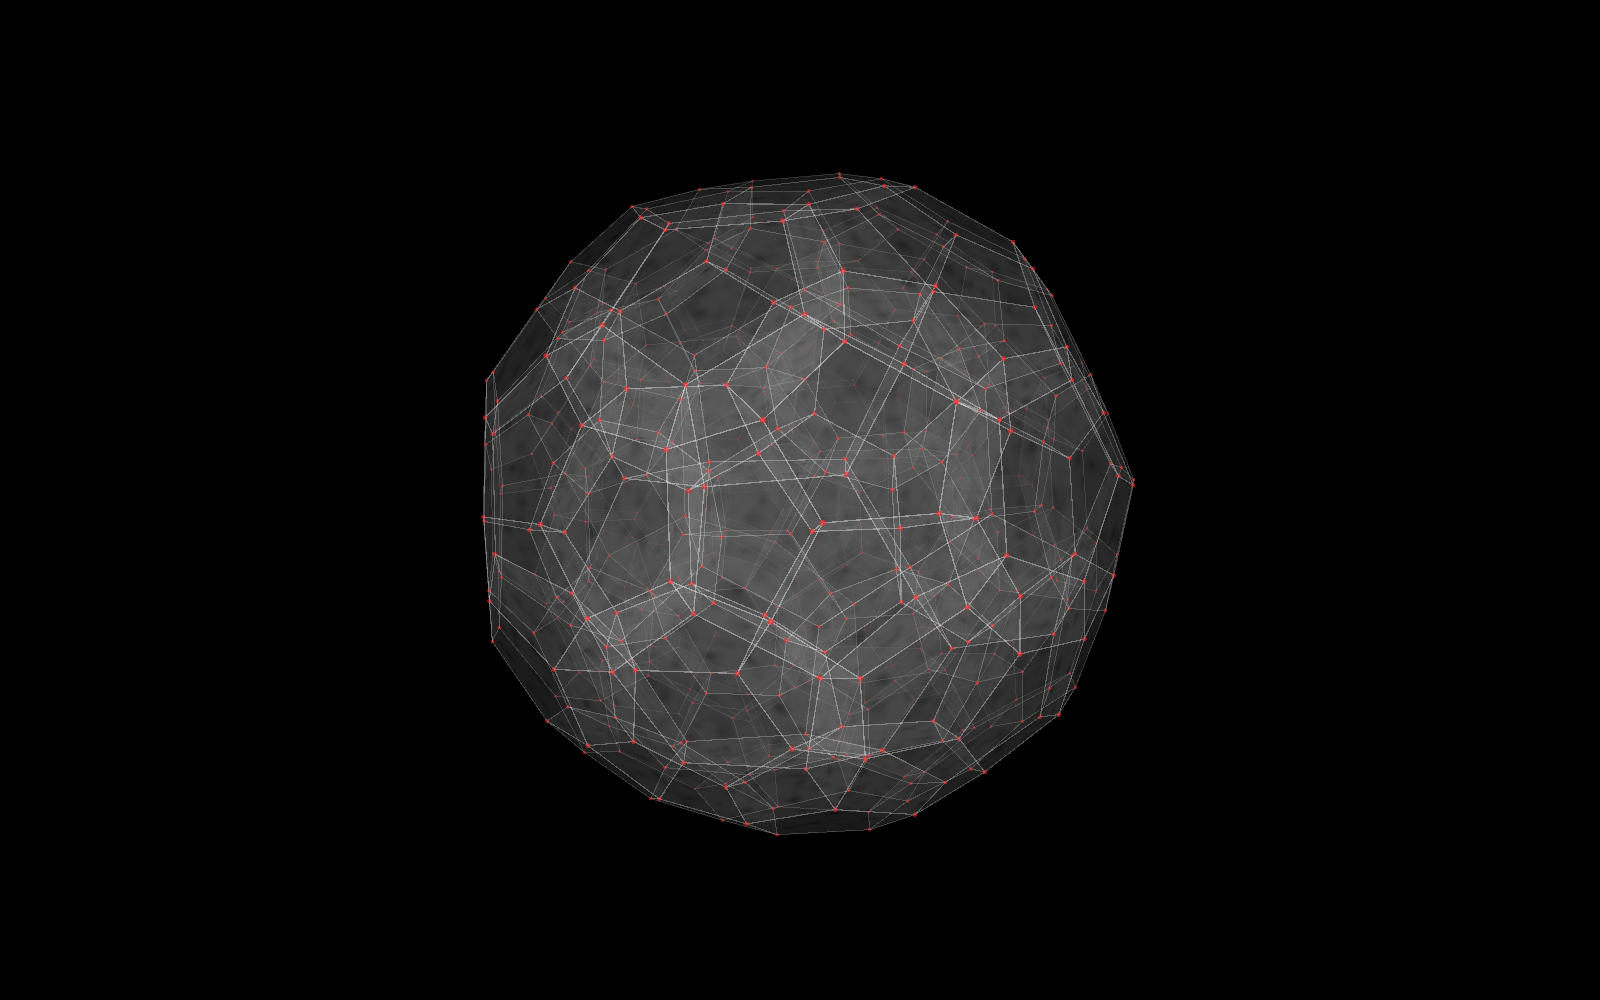
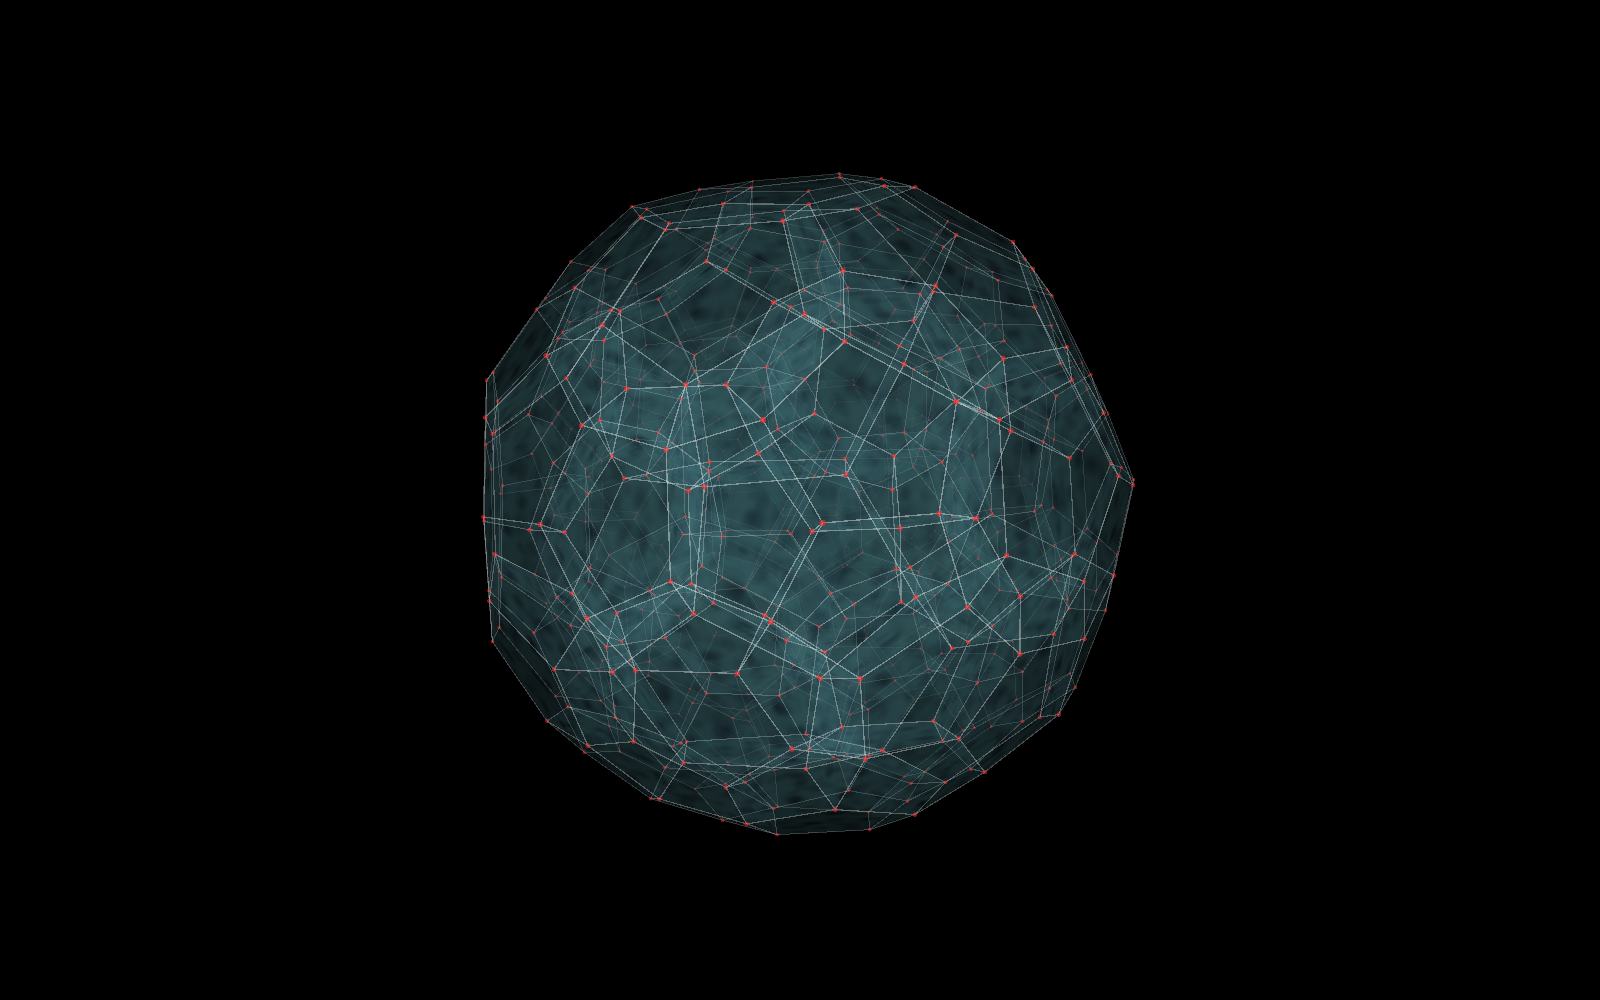
patterns: full colour space for the face shaders
The pattern contract widens from a scalar to vec4 (rgb + intensity),
with hsv() and a cosine-palette helper added to patterns.glsl so
colourful edits stay one-liners. All five shipped patterns recoloured:
RINGS rides a palette on ring phase, PLAID crosses a warm and a cool
wave system (colours add where they agree), MOIRE sweeps a teal-magenta
duotone, BLOOM hue-rotates its petals, CAUSTIC gets the deep-water
palette. FLAT stays plain white; wireframe and vertices keep the
red-on-black look. A chromaticity test asserts every non-flat pattern
leaves the gray axis. 127 tests green.

Claude-Session: https://claude.ai/code/session_01JqYpNTbn89AKhU11mSEWgg

Changed region(s): [[0.3125, 0.186, 0.6875, 0.806]]

diff --git a/tests/test_render.py b/tests/test_render.py
@@ -162,3 +162,19 @@ def test_face_uvs_shape():
         # every face's corners sit on the same circumradius about (0.5, 0.5)
         r = np.linalg.norm(uv - 0.5, axis=1)
         assert abs(r.max() - 0.5) < 1e-9
+
+
+def test_patterns_are_chromatic(ctx):
+    """Every non-flat pattern must leave the gray axis: some pixel with
+    meaningfully different channel values."""
+
+    from hyperspace.ui import PATTERNS
+
+    for mode in range(1, len(PATTERNS)):
+        img = render_offscreen(
+            ViewState(shape=3, ang=list(VIEW["ang"]), faces=True, pattern=mode,
+                      points=False),
+            600, 400, ctx=ctx, t_now=2.5,
+        ).astype(int)
+        spread = img.max(axis=2) - img.min(axis=2)
+        assert spread.max() > 25, f"{PATTERNS[mode]} renders effectively grayscale"

diff --git a/hyperspace/render.py b/hyperspace/render.py
@@ -90,14 +90,17 @@ uniform float u_mix;
 
 FACE_FS_TAIL = """
 void main() {
+    vec3 rgb = vec3(1.0);
     float shade = 1.0;
     if (u_mode != 0) {
-        float v = clamp(pattern(u_mode, v_uv, v_fid), 0.0, 1.0);
-        shade = mix(1.0, 2.8 * v, u_mix);
+        vec4 v = pattern(u_mode, v_uv, v_fid);
+        v = clamp(v, 0.0, 1.0);
+        shade = mix(1.0, 2.8 * v.a, u_mix);
+        rgb = mix(vec3(1.0), v.rgb, u_mix);
     }
     float a = v_alpha * shade;
     if (a <= 0.0) discard;
-    f_color = vec4(1.0, 1.0, 1.0, a);
+    f_color = vec4(rgb, a);
 }
 """
 

diff --git a/docs/plans/03-ui-scenes.md b/docs/plans/03-ui-scenes.md
@@ -193,4 +193,8 @@ patterns. Built:
 - With patterns on, the per-pixel pattern math runs entirely on the GPU;
   the CPU still only does the per-vertex transform.
 
-Showcase: `docs/plans/assets/03-pattern-*.png`. 126 tests green.
+Patterns are full colour: the contract is vec4 (rgb + intensity), with
+hsv() and a cosine-palette helper in the GLSL file; a chromaticity test
+keeps grayscale regressions out. Wireframe and vertices keep the
+red-on-black instrument look — colour lives in the faces.
+Showcase: `docs/plans/assets/03-pattern-*.png`. 127 tests green.
